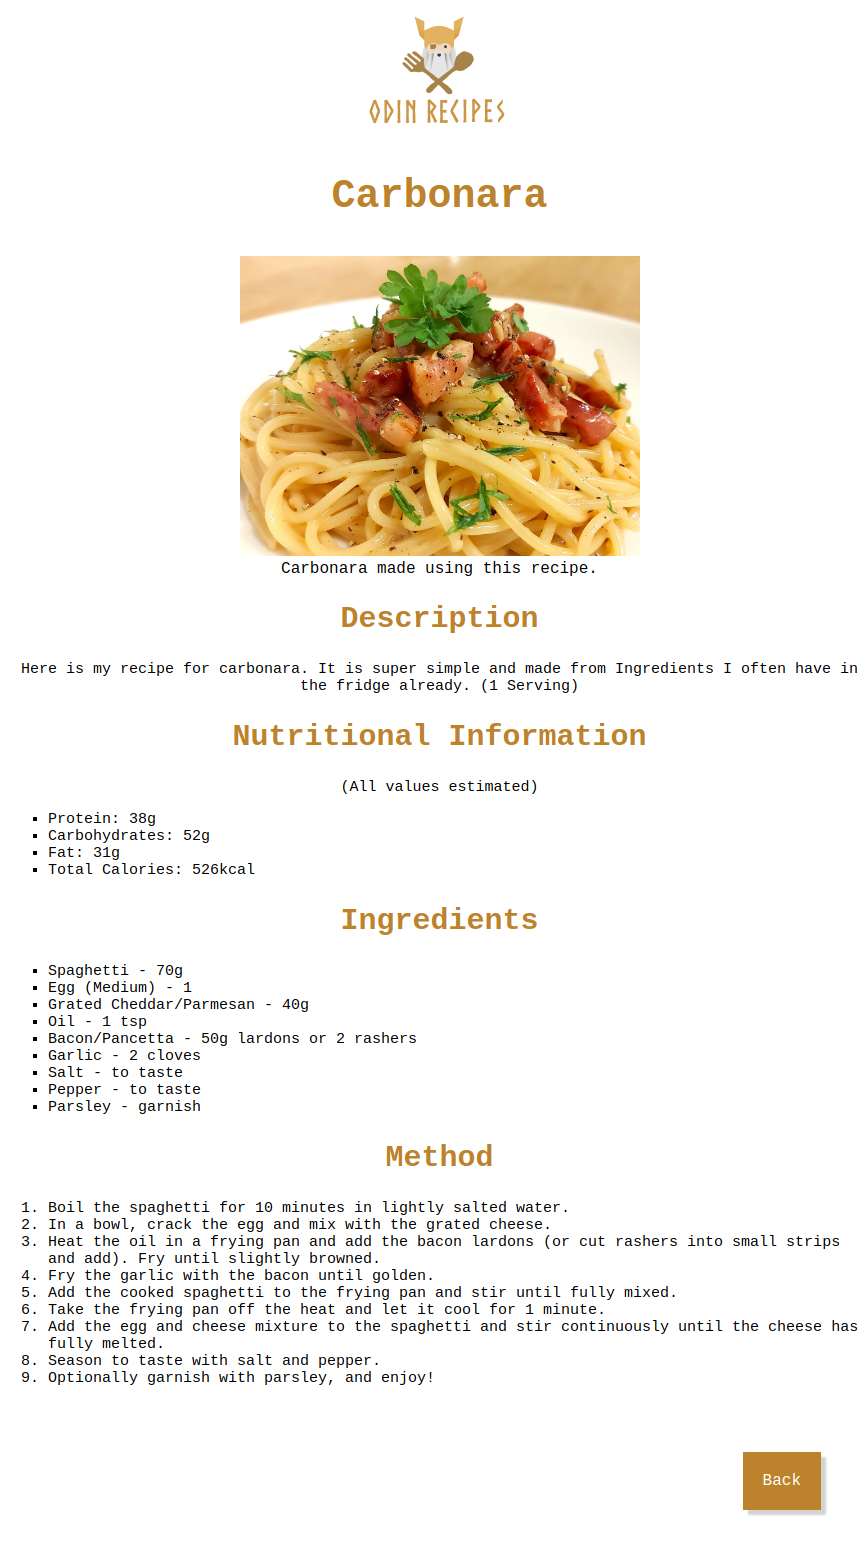
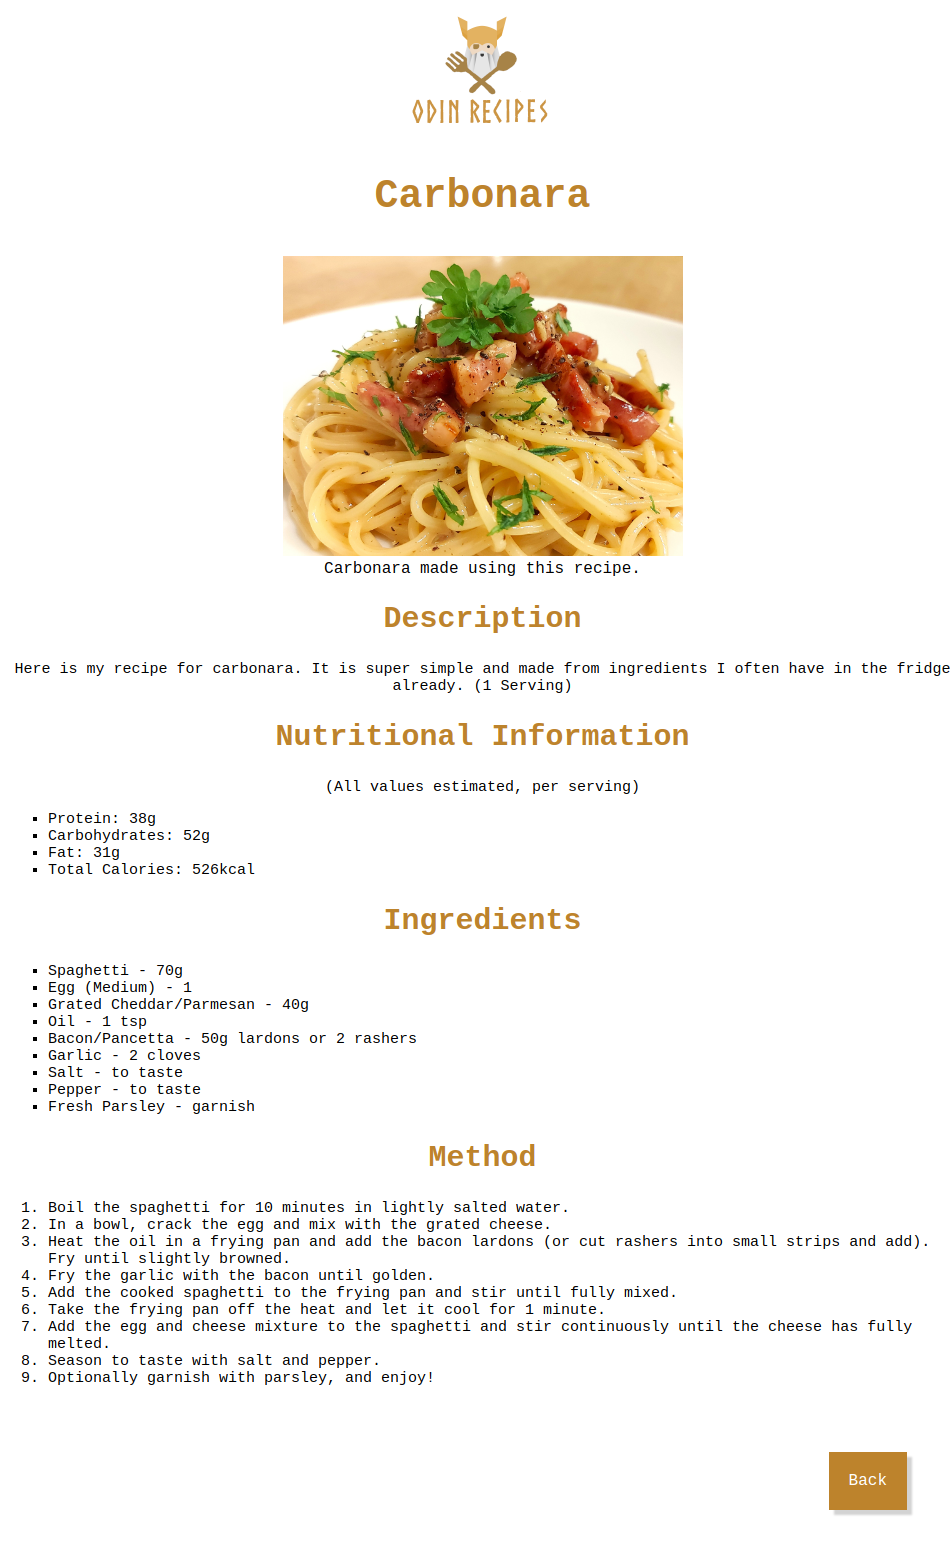
update chilli recipe and readme

diff --git a/recipes/chilli-con-carne.html b/recipes/chilli-con-carne.html
@@ -4,6 +4,7 @@
     <head>
         <meta charset="utf-8">
         <title>Chilli Con Carne</title>
+        <link rel="shortcut icon" type="image/x-icon" href="../favicon.ico" />
         <link rel="stylesheet" href="../style.css" />
     </head>
 
@@ -15,48 +16,61 @@
         </div>
         <h1>Chilli Con Carne</h1>
         <div class="recipe-img-container">
-            <img class="recipe-img" src="../imgs/chili-con-carne.jpg" alt="Chilli con carne" width="400">
+            <img class="recipe-img" src="../imgs/chilli-con-carne.jpg" alt="Chilli con carne" width="400">
+            <figcaption>Chilli con carne made using this recipe.</figcaption>
         </div>
         <h2>Description</h2>
         <p>Here is my recipe for chilli con carne. I have found that adding brown 
             sugar gives a much more enhanced flavour. (5 Servings)
         </p>
+        <h2>Nutritional Information</h2>
+        <p>(All values estimated, per serving)</p>
+        <ul>
+            <li>Protein: 31g</li>
+            <li>Carbohydrates: 70g</li>
+            <li>Fat: 16g</li>
+            <li>Total Calories: 485kcal</li>
+        </ul>
         <h2>Ingredients</h2>
         <ul>
-            <li>Oil - 1 tsp</li>
+            <li>Oil - 2 tsp</li>
             <li>Brown Onion - 1</li>
             <li>Minced Beef - 500g</li>
             <li>Red Pepper - 1</li>
-            <li>Paprika</li>
-            <li>Ground Coriander</li>
-            <li>Ground Cumin</li>
-            <li>Cayenne Pepper</li>
-            <li>Dried Chilli Flakes</li>
-            <li>Oregano</li>
-            <li>Garlic Powder</li>
-            <li>Beef Stock Cube - 1 Cube</li>
             <li>Garlic - 4 Cloves</li>
-            <li>Chopped Tomatoes - 400g</li>
+            <li>Tomato Puree - 2 tbsp</li>
+            <li>Ground Coriander - 1/4 tsp</li>
+            <li>Paprika - 1 tsp</li>
+            <li>Ground Cumin - 1 tsp</li>
+            <li>Cayenne Pepper - 1 tsp</li>
+            <li>Garlic Powder 1 tsp</li>
+            <li>Oregano - 1 tsp</li>
+            <li>Beef Stock Cube - 1 Cube (half the amount of water)</li>
             <li>Red Kidney Beans - 400g</li>
-            <li>Salt</li>
-            <li>Black Pepper</li>
-            <li>Brown Sugar</li>
-            <li>Cheese</li>
-            <li>Soured Cream or Creme Fraiche</li>
-            <li>Boiled Rice</li>
+            <li>Chopped Tomatoes - 400g</li>
+            <li>Brown Sugar - to taste</li>
+            <li>Salt - to taste</li>
+            <li>Black Pepper - to taste</li>
+            <li>Boiled Rice - 112.5g (cooked)</li>
+            <li>Soured Cream/Creme Fraiche - 2 tbsp</li>
+            <li>Dried Chilli Flakes - garnish</li>
+            <li>Fresh Chilli - garnish</li>
+            <li>Fresh Coriander - garnish</li>
         </ul>
         <h2>Method</h2>
         <ol type="1">
-            <li>Add oil to a pan and heat up on medium heat.</li>
-            <li>Add onions and cook until soft.</li>
-            <li>Add mince or alternative and cook.</li>
-            <li>Add garlic and cook.</li>
-            <li>Add parpika, ground coriander, cumin, cayenne pepper and beef stock.</li>
-            <li>Add tinned tomatoes.</li>
-            <li>Add oregano and garlic powder.</li>
-            <li>Add red kidney beans.</li>
+            <li>Heat 1 tsp of oil in a saucepan on medium heat.</li>
+            <li>Chop and add the onion to the pan, and cook until soft.</li>
+            <li>Add another tsp of oil and the minced beef, and cook.</li>
+            <li>Chop the red pepper and garlic and add to the saucepan.</li>
+            <li>Stir in 2 tsp of tomato puree.</li>
+            <li>Add 1/4 tsp ground coriander, 1 tsp paprika, cumin, cayenne pepper, oregano and garlic powder and mix.</li>
+            <li>Make the beef stock using half the amount of water and add to the pan.</li>
+            <li>Add the red kidney beans and cook for 5 minutes.</li>
+            <li>Add the chopped tomatoes and simmer on a low heat for 30 minutes.</li>
             <li>Season to taste with salt, pepper and brown sugar.</li>
-            <li>Serve with grated cheese and soured cream or creme fraiche on boiled rice.</li>
+            <li>Serve with soured cream or creme fraiche on boiled rice.</li>
+            <li>Garnish with dried chilli flakes, fresh chilli and coriander, and enjoy!</li>
         </ol>
         <a class="back" href="../index.html">Back</a>
     </body>

diff --git a/recipes/carbonara.html b/recipes/carbonara.html
@@ -4,6 +4,7 @@
     <head>
         <meta charset="utf-8">
         <title>Carbonara</title>
+        <link rel="shortcut icon" type="image/x-icon" href="../favicon.ico" />
         <link rel="stylesheet" href="../style.css" />
     </head>
 
@@ -19,11 +20,11 @@
             <figcaption>Carbonara made using this recipe.</figcaption>
         </div>
         <h2>Description</h2>
-        <p>Here is my recipe for carbonara. It is super simple and made from Ingredients
+        <p>Here is my recipe for carbonara. It is super simple and made from ingredients
             I often have in the fridge already. (1 Serving)
         </p>
         <h2>Nutritional Information</h2>
-        <p>(All values estimated)</p>
+        <p>(All values estimated, per serving)</p>
         <ul>
             <li>Protein: 38g</li>
             <li>Carbohydrates: 52g</li>
@@ -40,7 +41,7 @@
             <li>Garlic - 2 cloves</li>
             <li>Salt - to taste</li>
             <li>Pepper - to taste</li>
-            <li>Parsley - garnish</li>
+            <li>Fresh Parsley - garnish</li>
         </ul>
         <h2>Method</h2>
         <ol type="1">

diff --git a/recipes/sausage-and-mash.html b/recipes/sausage-and-mash.html
@@ -4,6 +4,7 @@
     <head>
         <meta charsetp="utf-8">
         <title>Sausage and Mash</title>
+        <link rel="shortcut icon" type="image/x-icon" href="../favicon.ico" />
         <link rel="stylesheet" href="../style.css" />
     </head>
 
@@ -16,6 +17,7 @@
         <h1>Sausage and Mash</h1>
         <div class="recipe-img-container">
             <img class="recipe-img" src="../imgs/sausage-and-mash.jpg" alt="Sausage and mash" width="400">
+            <figcaption>Sausages and mash made using this recipe.</figcaption>
         </div>
         <h2>Description</h2>
         <p>Here is my recipe for sausage and mash (or bangers and mash). This is the 

diff --git a/index.html b/index.html
@@ -18,7 +18,7 @@
         <ul class="horizontal-ul">
             <li class="horizontal-list">
                 <a href="recipes/chilli-con-carne.html">
-                    <img src="imgs/chili-con-carne.jpg" alt="chilli con carne" class="list-img"/>
+                    <img src="imgs/chilli-con-carne.jpg" alt="chilli con carne" class="list-img"/>
                 </a>
                 <figcaption>Chilli Con Carne Recipe</figcaption>
             </li>
